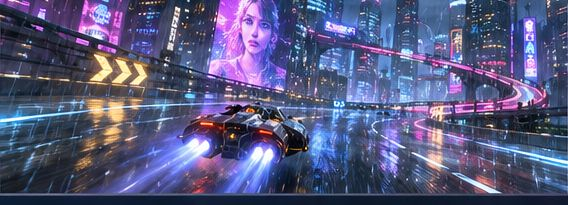
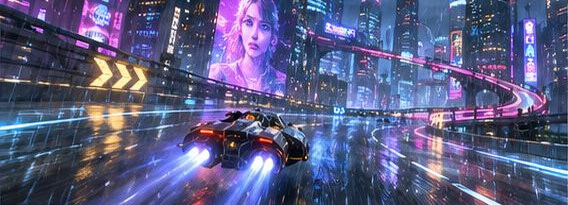
fix(assets): sync five textless track teasers and artwork rules from develop

diff --git a/CLAUDE.md b/CLAUDE.md
@@ -71,3 +71,14 @@ production renderer, physics or sibling branches during a docs-only pass.
 Commit and push to the current branch. `feature/**`, `fix/**`, `refactor/**` branch from and
 merge back into `develop` (`--no-ff`); only `develop` and `hotfix/*` merge into `main`;
 `/release` back-merges `main` into `develop`. Full flow: `.claude/rules/branch-release.md`.
+
+## Track teaser artwork contract (all maps)
+
+Applies to `public/track-teasers/<track-slug>.jpg` in the home/Coming Soon/track-selection UI.
+
+- Final committed asset **must decode as an actual 568 × 205 pixel JPEG** (not merely display at that CSS size); use a consistent high-quality cinematic futuristic racing illustration style. The 3× rule for transparent UI icons does not replace this exact JPEG contract.
+- **Scene only:** never burn in track names, headings, descriptions, buttons, labels, logos, watermarks, captions, or any other text. UI copy belongs in HTML/Vue, not inside the image.
+- **Edge-to-edge scene:** no white/blank borders, padding, letterbox bars, empty canvas corners, or fragments of adjacent maps. Inspect the top/bottom rows and all four edges for seams, other map strips and unwanted overlays. Keep the intended vehicle, road and landmark visibly framed; do not crop off significant content to hide a defect.
+- For the five-track 2026-11-05 correction, **preserve the original artwork, viewpoint, colors and subject** for Monsoon Ruins, Skyfall Archipelago, Stormline Megacity and Volcanic Crown; repair only text, seams and unwanted lower strips with source-faithful reconstruction. **Only Frostbite Canyon is authorized for a full redraw** to match those maps' original cinematic illustration style.
+- Before committing, inspect each decoded JPEG at native 568 × 205 and compare against the source side by side; verify image format and dimensions with an executable check, ensure the image is readable in the real desktop/mobile track-selection UI and check that no unrelated source files changed. CI/test results and manual visual acceptance must be reported separately, never assumed.
+
